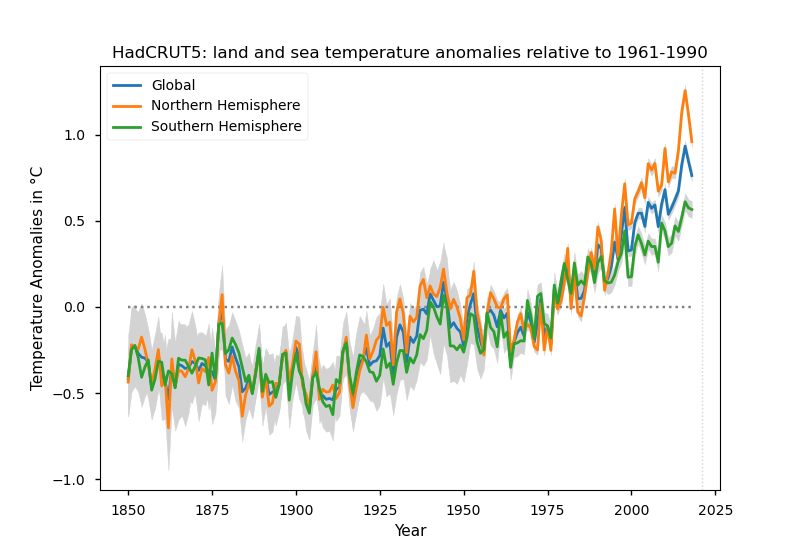
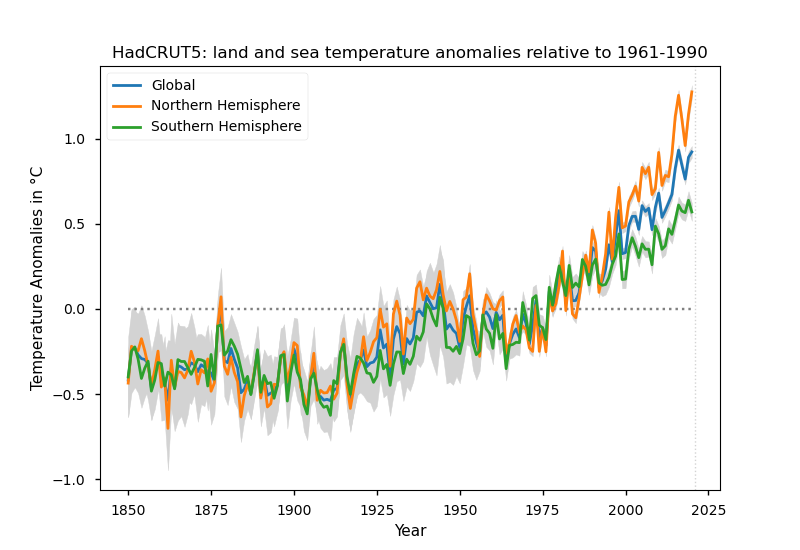
Update the datasets to the latest available version

diff --git a/hadcrut5-plot.py b/hadcrut5-plot.py
@@ -195,15 +195,15 @@ def main():
     datasets = {}
     if global_temps:
         datasets["Global"] = {
-            "filename": "HadCRUT.5.0.0.0.analysis.summary_series.global.annual.nc"
+            "filename": "HadCRUT.5.0.1.0.analysis.summary_series.global.annual.nc"
         }
     if northern_temps:
         datasets["Northern Hemisphere"] = {
-            "filename": "HadCRUT.5.0.0.0.analysis.summary_series.northern_hemisphere.annual.nc"
+            "filename": "HadCRUT.5.0.1.0.analysis.summary_series.northern_hemisphere.annual.nc"
         }
     if southern_temps:
         datasets["Southern Hemisphere"] = {
-            "filename": "HadCRUT.5.0.0.0.analysis.summary_series.southern_hemisphere.annual.nc"
+            "filename": "HadCRUT.5.0.1.0.analysis.summary_series.southern_hemisphere.annual.nc"
         }
 
     for item in datasets:
